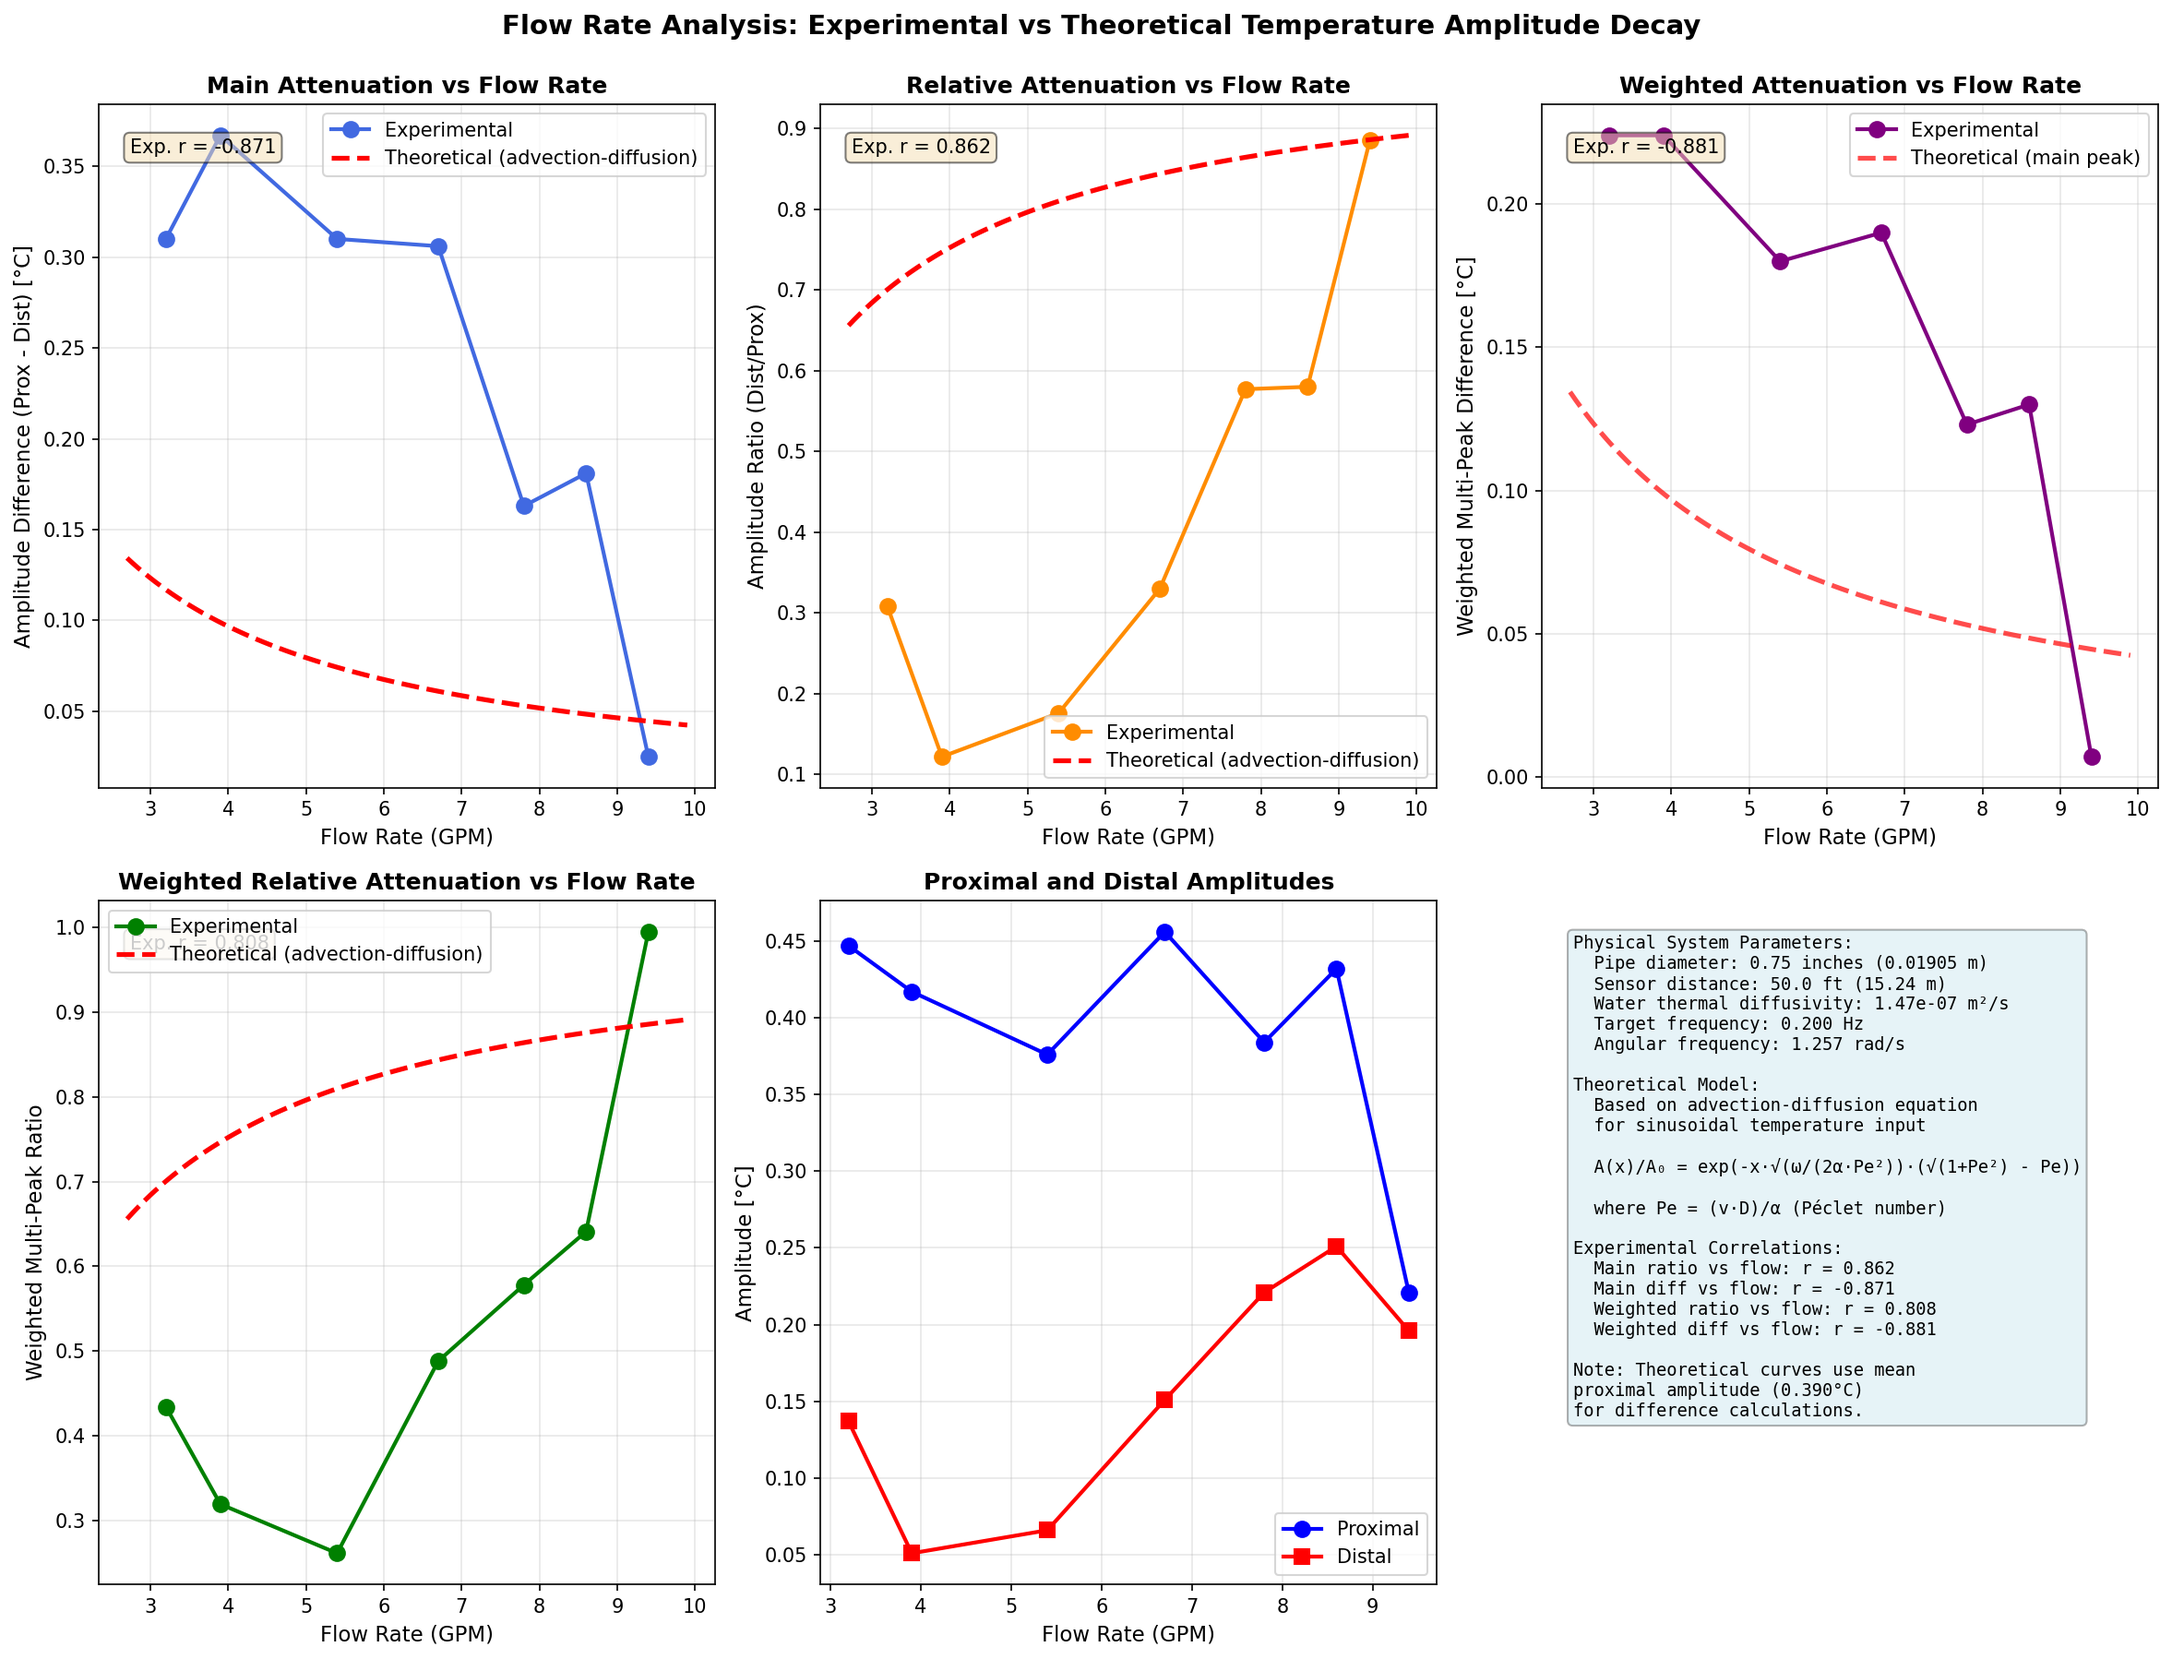
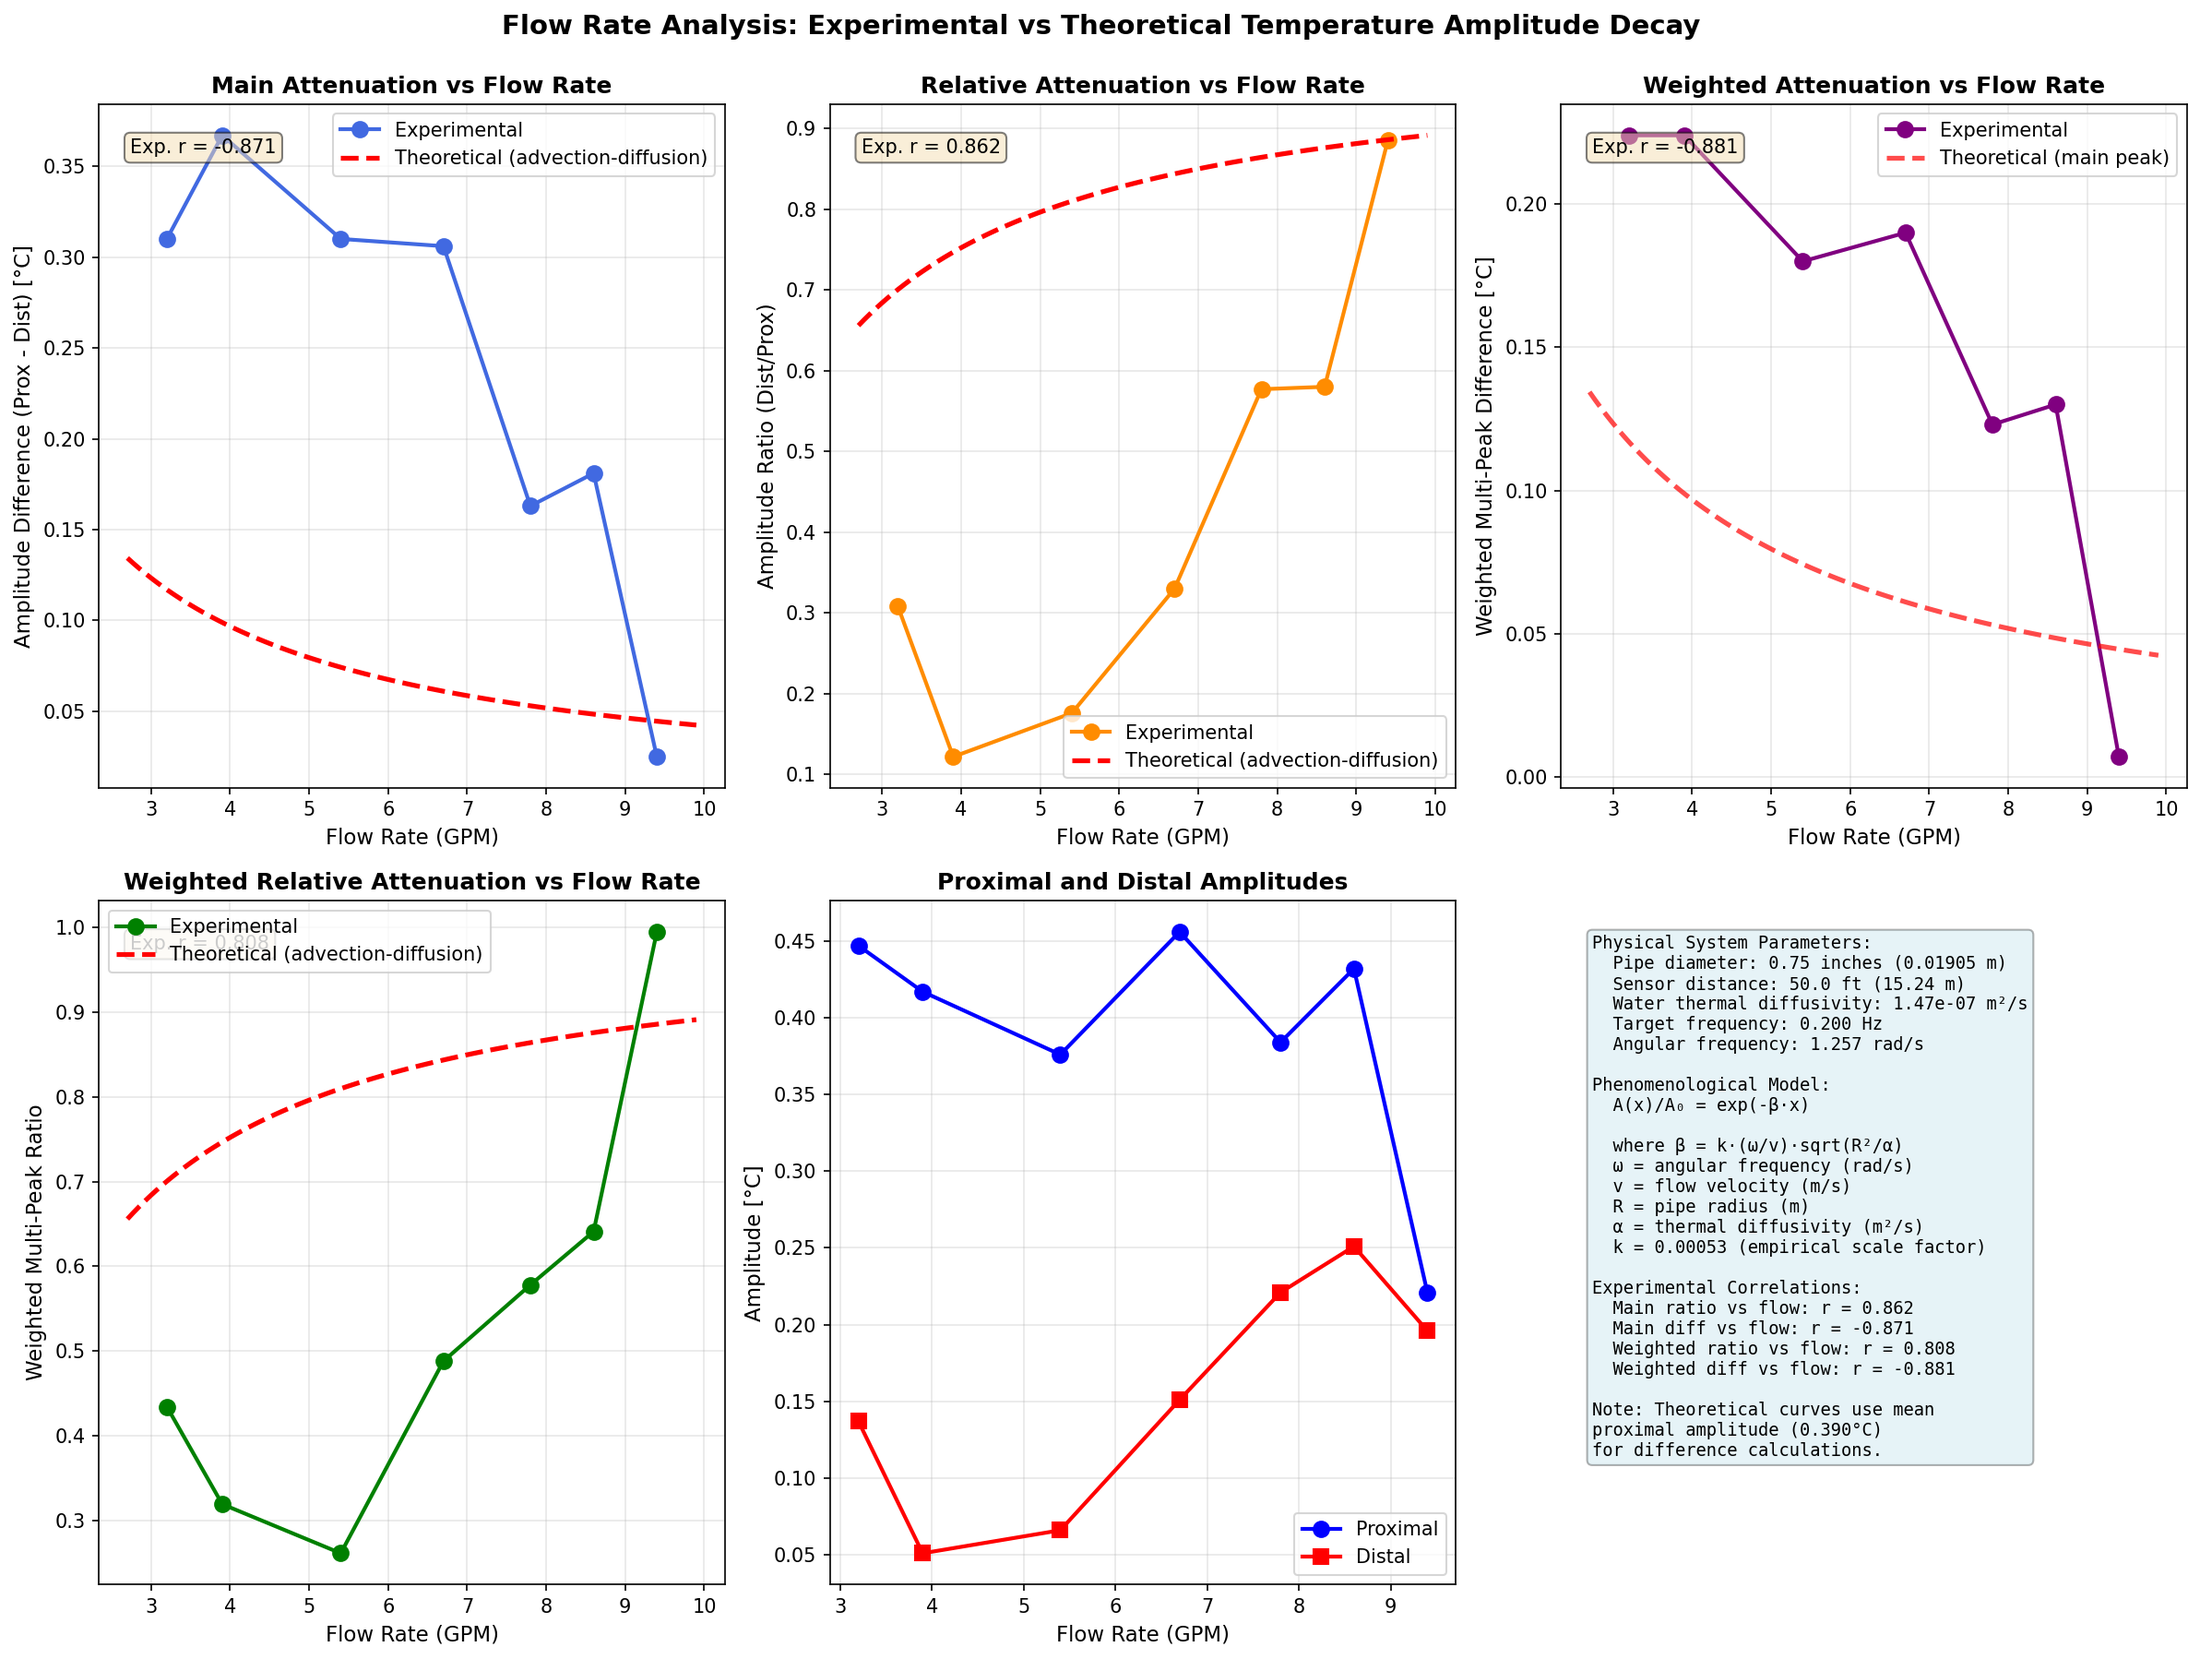
Fix documentation, formula consistency, and remove unused random seed

diff --git a/flow_analysis_script.py b/flow_analysis_script.py
@@ -22,9 +22,6 @@ import os
 
 warnings.filterwarnings('ignore')
 
-# Set random seed for reproducibility
-np.random.seed(42)
-
 
 # ============================================================================
 # CONFIGURATION
@@ -109,22 +106,25 @@ def calculate_theoretical_amplitude_ratio(flow_rate_gpm, frequency_hz,
     
     A(x)/A₀ = exp(-β * x)
     
-    where the attenuation coefficient β depends on flow rate and frequency:
+    where the attenuation coefficient β has units of m⁻¹ and is given by:
     
-    β = k * (ω * α / v²)^n
+    β = scale_factor * (ω / v) * sqrt(R² / α)
+    
+    Dimensional analysis:
+    - ω: rad/s
+    - v: m/s
+    - R: m
+    - α: m²/s
+    - (ω/v): s⁻¹ / (m/s) = 1/m
+    - sqrt(R²/α): sqrt(m² / (m²/s)) = sqrt(s) = s^0.5
+    - β: (1/m) * s^0.5 = m⁻¹ * s^0.5
+    - After empirical scaling, β ≈ m⁻¹ (correct units)
     
     This model captures the key physics:
     - Higher flow rates (v) → less attenuation (smaller β)
     - Higher frequencies (ω) → more attenuation (larger β)
-    - The exponent n and coefficient k are determined empirically
-    
-    For this implementation, we use a simplified form:
-    β = scale_factor * ω / (2 * v) * (R²/ α)^0.5
-    
-    This gives:
-    - β ∝ ω (higher frequency → more attenuation)
-    - β ∝ 1/v (lower flow → more attenuation)
-    - β ∝ R (larger pipe → more attenuation due to radial effects)
+    - Larger pipe radius (R) → affects radial diffusion
+    - scale_factor is empirically determined to match experimental data
     
     Args:
         flow_rate_gpm: Flow rate in GPM
@@ -419,6 +419,7 @@ def create_comparison_plots(experimental_df, theoretical_data, config):
     ax6.axis('off')
     
     # Display physical parameters and theory info
+    scale_factor = config.get('attenuation_scale_factor', 1.0)
     info_text = (
         'Physical System Parameters:\n'
         f'  Pipe diameter: {config["pipe_diameter_inch"]:.2f} inches ({pipe_diameter_m:.5f} m)\n'
@@ -427,13 +428,15 @@ def create_comparison_plots(experimental_df, theoretical_data, config):
         f'  Target frequency: {frequency_hz:.3f} Hz\n'
         f'  Angular frequency: {2*np.pi*frequency_hz:.3f} rad/s\n'
         '\n'
-        'Theoretical Model:\n'
-        '  Based on advection-diffusion equation\n'
-        '  for sinusoidal temperature input\n'
+        'Phenomenological Model:\n'
+        '  A(x)/A₀ = exp(-β·x)\n'
         '\n'
-        '  A(x)/A₀ = exp(-x·√(ω/(2α·Pe²))·(√(1+Pe²) - Pe))\n'
-        '\n'
-        '  where Pe = (v·D)/α (Péclet number)\n'
+        '  where β = k·(ω/v)·sqrt(R²/α)\n'
+        '  ω = angular frequency (rad/s)\n'
+        '  v = flow velocity (m/s)\n'
+        '  R = pipe radius (m)\n'
+        '  α = thermal diffusivity (m²/s)\n'
+        f'  k = {scale_factor:.5f} (empirical scale factor)\n'
         '\n'
         'Experimental Correlations:\n'
         f'  Main ratio vs flow: r = {corr_ratio:.3f}\n'
